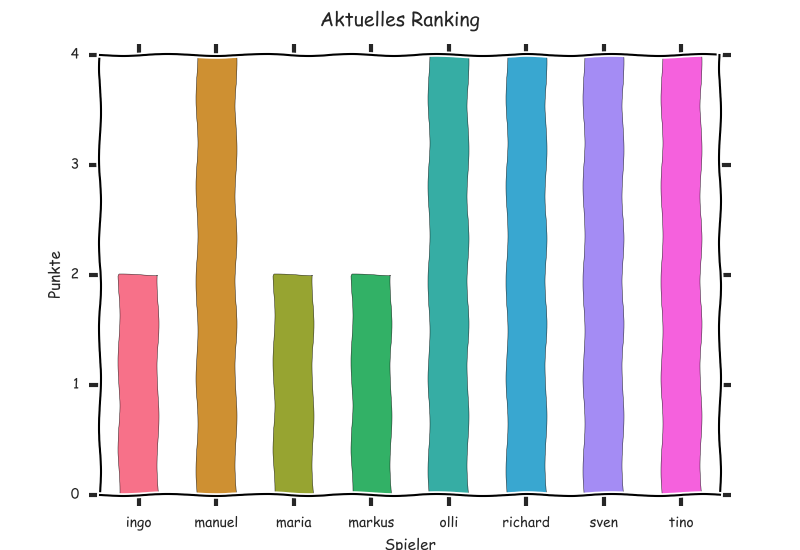
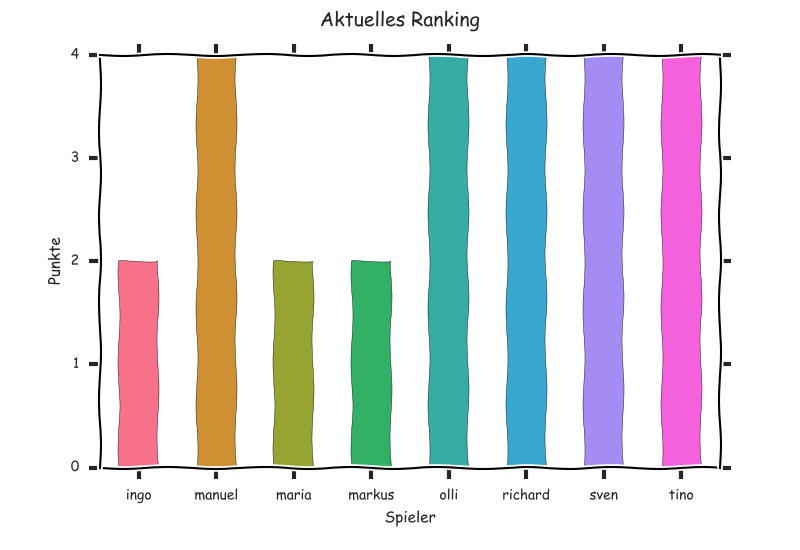
fix cut off xaxis

diff --git a/tippspiel.py b/tippspiel.py
@@ -116,6 +116,7 @@ def update_data():
     fig.suptitle("Aktuelles Ranking")
     plt.xlabel("Spieler")
     plt.ylabel("Punkte")
+    fig.subplots_adjust(bottom=0.15)
     fig.savefig("standings.png")
 
     if os.path.isfile(DATA_FILE):
@@ -136,6 +137,7 @@ def update_data():
     fig.suptitle("Punkte vs Zeit")
     plt.xlabel("Datum")
     plt.ylabel("Punkte")
+    fig.subplots_adjust(bottom=0.15)
     fig.savefig("standings_vs_time.png")
 
     df.to_pickle(DATA_FILE)
